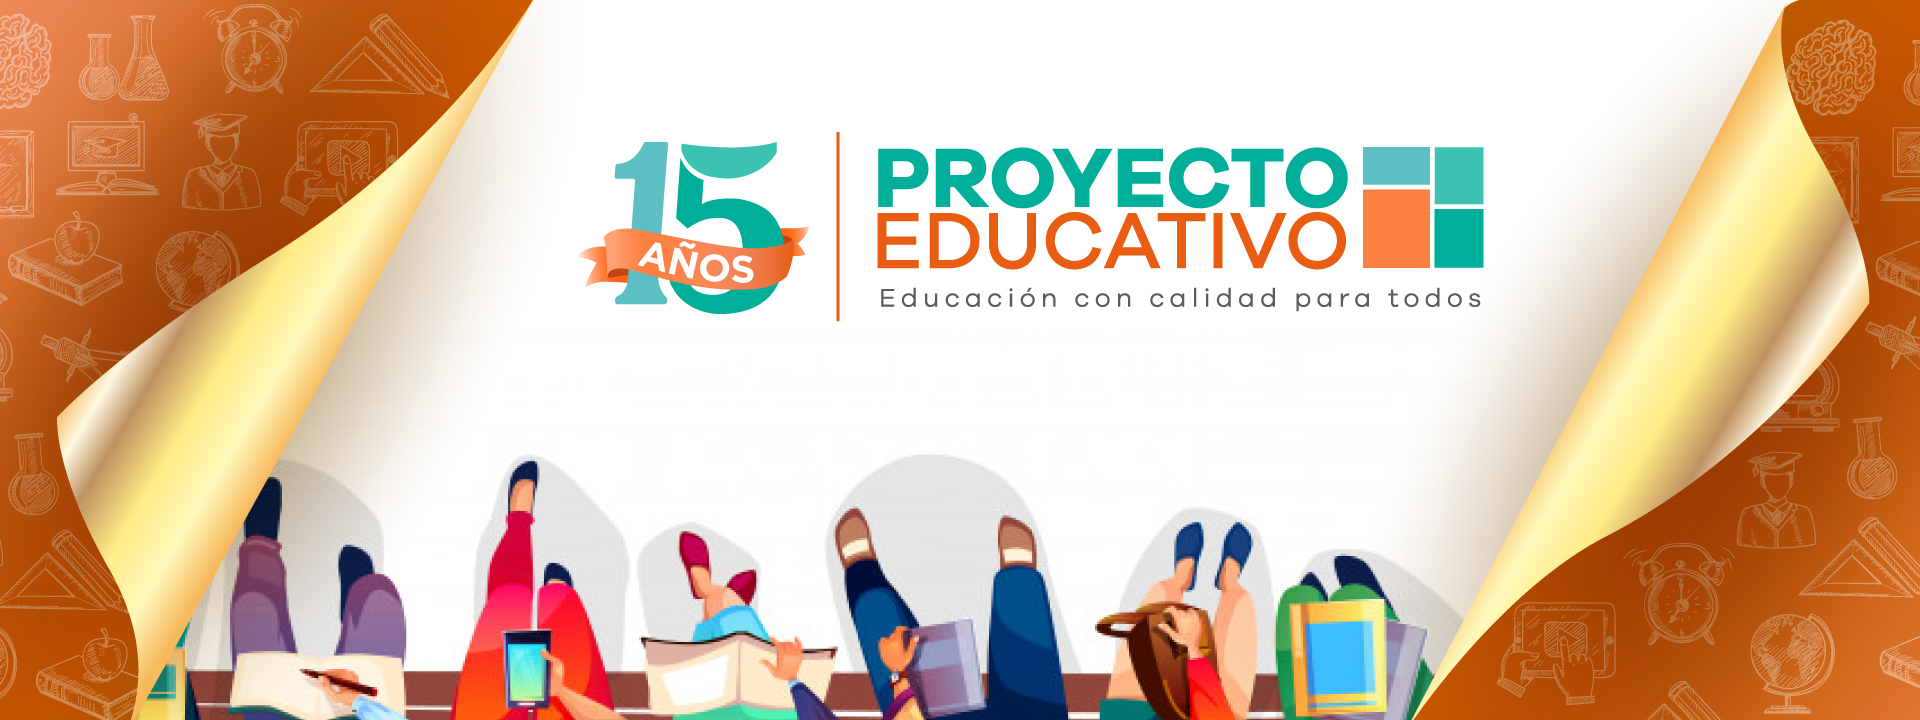
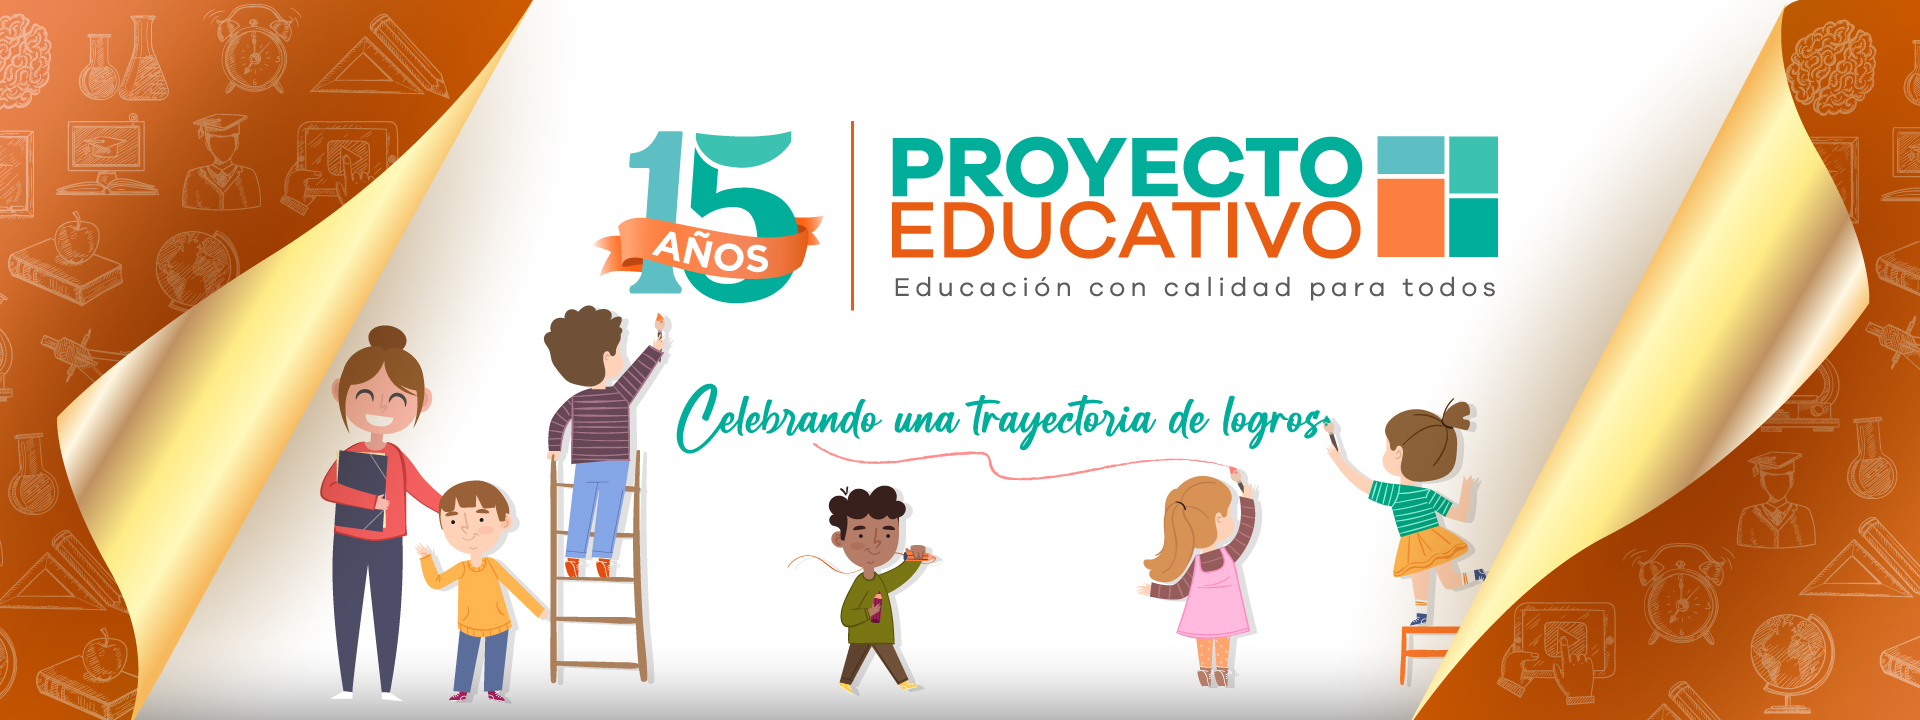
ajsutes aniversario

Changed region(s): [[0.0625, 0.1833, 0.7812, 1.0]]

diff --git a/application/views/index.php b/application/views/index.php
@@ -8,10 +8,9 @@
         </ol>
         <div class="carousel-inner">
           <div class="carousel-item active">
-            <img class="d-block w-100 img-fluid" src="<?= base_url('assets/img/home/slider/slider-xvaniversario.jpg'); ?>" alt="First slide">
-            <div class="carousel-caption d-md-block cc-light" >
-              <h2 class="font-weight-bold">CELEBREMOS 15 años de trayectoria </h2>
-            </div>
+            <a href="<?= base_url('Xv_aniversario') ?>">
+              <img class="d-block w-100 img-fluid" src="<?= base_url('assets/img/home/slider/slider-xvaniversario.jpg'); ?>" alt="First slide">
+            </a>
           </div>
           <div class="carousel-item">
             <img class="d-block w-100 img-fluid" src="<?= base_url('assets/img/home/slider/slider-4.jpg'); ?>" alt="First slide">

diff --git a/application/views/templates/header.php b/application/views/templates/header.php
@@ -23,7 +23,7 @@
 
 
    <script src="https://ajax.googleapis.com/ajax/libs/jquery/3.4.1/jquery.min.js"></script>
- 
+
     <link rel="canonical" href="https://www.proyectoeducativo.org/">
 
     <!-- Bootstrap core CSS -->
@@ -90,7 +90,7 @@
                       </div>
                     </li>-->
                 <li class="nav-item mx-0 mx-lg-1">
-                <a class="nav-link rounded" href="<?= base_url('Fotogaleria') ?>">
+                <a class="nav-link rounded" href="<?= base_url('Xv_aniversario') ?>">
                   <span class="fa-layers fa-stack">
                       <i class="fas fa-circle fa-stack-2x holder"></i>
                       <i class="far fa-circle fa-stack-2x circle"></i>

diff --git a/application/controllers/Xv_aniversario.php b/application/controllers/Xv_aniversario.php
@@ -1,7 +1,7 @@
 <?php
 defined('BASEPATH') OR exit('No direct script access allowed');
 
-class Fotogaleria extends CI_Controller {
+class Xv_aniversario extends CI_Controller {
 
 		function __construct() {
 			parent::__construct();
@@ -11,7 +11,7 @@ class Fotogaleria extends CI_Controller {
 	public function index()
 	{
 		$data = array();
-		Utilerias::pagina_basica($this, "fotogaleria/index", $data);
+		Utilerias::pagina_basica($this, "xv_aniversario/index", $data);
 
-	}	
+	}
 }
